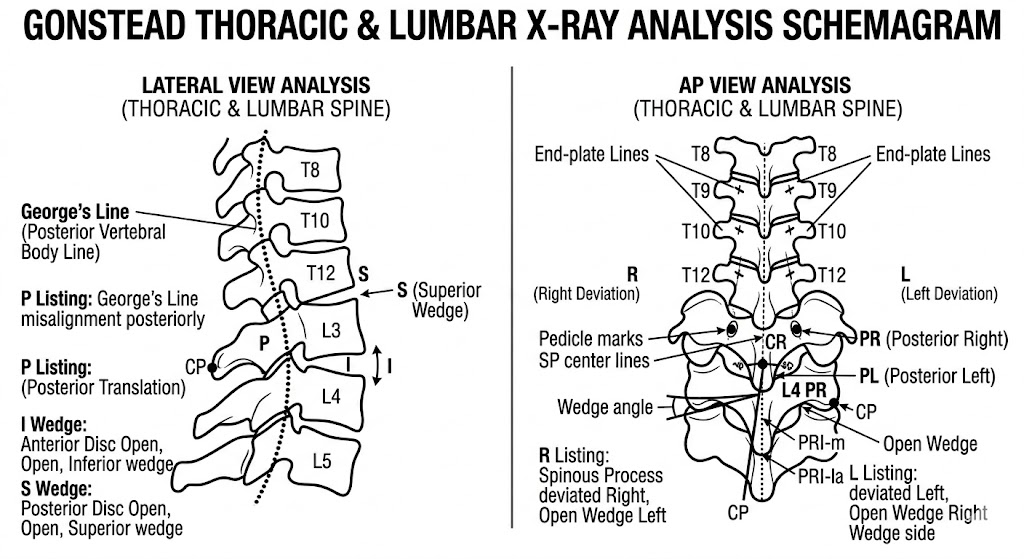
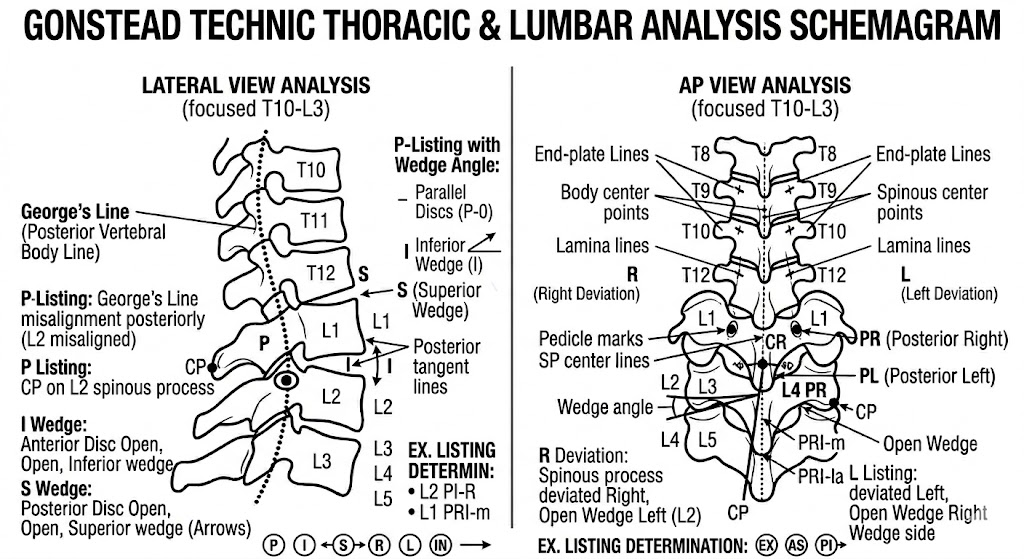
fix(ch4): Gonstead listing schemagram 4종 교체 (atlas .png→.jpg · thoracolumbar T10-L3 wedge angle · pelvic L3-L5 AP transverse grid)
Cache bust: ?v=20260506c

🤖 Generated with deploy.sh

diff --git a/chapter04_gonstead.html b/chapter04_gonstead.html
@@ -5,12 +5,12 @@
   <meta name="viewport" content="width=device-width, initial-scale=1.0" />
   <title>Gonstead Technique | Chiropractic</title>
   <meta name="description" content="Chapter 4. Gonstead Technique — 5 Components 특이적 분석 · X-ray listing · Level Disc Theory. 근거 기반, 비판적 시각 포함." />
-  <link rel="stylesheet" href="./assets/main.css?v=20260506a" />
+  <link rel="stylesheet" href="./assets/main.css?v=20260506c" />
 
-<script defer src="./assets/ui.js?v=20260506a"></script>
-<script defer src="./assets/download-guard.js?v=20260506a"></script>
-<script defer src="./assets/hide-guard.js?v=20260506a"></script>
-<script defer src="./assets/pdf-viewer.js?v=20260506a"></script>
+<script defer src="./assets/ui.js?v=20260506c"></script>
+<script defer src="./assets/download-guard.js?v=20260506c"></script>
+<script defer src="./assets/hide-guard.js?v=20260506c"></script>
+<script defer src="./assets/pdf-viewer.js?v=20260506c"></script>
 <style id="gonstead-protocol-css">
 /* Gonstead per-region protocol cards */
 .gs-region {
@@ -201,8 +201,8 @@
 .archive-inline .video-card .title { font-weight: 600; font-size: .92em; }
 .archive-inline .video-card .meta { font-size: .78em; color: #86868b; }
 </style>
-  <script src="./assets/config.js?v=20260506a"></script>
-  <script type="module" src="./assets/auth-guard.js?v=20260506a"></script>
+  <script src="./assets/config.js?v=20260506c"></script>
+  <script type="module" src="./assets/auth-guard.js?v=20260506c"></script>
 </head>
 <body>
 
@@ -393,9 +393,9 @@
       </p>
 
       <figure style="margin: 1.25rem 0; text-align:center;">
-        <img src="./images/listing_Atlas.png" alt="Upper Cervical X-ray Analysis Schemagram — Lateral 및 APOM/Nasium에서 C0-C1-C2 listing 결정" loading="lazy" style="width:100%; max-width:880px; border:1px solid var(--c-border-light); border-radius:var(--r-md); background:#fff;" />
+        <img src="./images/listing_atlas.jpg" alt="Upper Cervical X-ray Analysis Schemagram — Lateral 및 APOM/Nasium에서 C0-C1-C2 listing 결정" loading="lazy" style="width:100%; max-width:880px; border:1px solid var(--c-border-light); border-radius:var(--r-md); background:#fff;" />
         <figcaption style="margin-top: 0.5rem; font-size: 0.9em; color: var(--c-text-muted); text-align:left;">
-          <strong>Upper Cervical Schemagram (C0-C1-C2)</strong> — <em>Lateral view</em>에서는 <strong>C1 Plane Line(Atlas Plane)</strong>의 전·후 방향 기울기로 <strong>AS(상방)</strong>·<strong>AI(하방)</strong>를 판독. <em>APOM(Open-Mouth)/Nasium</em>에서는 <strong>C1 Transverse Line</strong>이 occipital condyle에 대해 어느 쪽이 더 넓은지로 lateral mass shift(<strong>R/L</strong>)를 결정. C2 spinous(SP)의 편측 + open wedge 방향으로 <strong>PRS/PRI/PLS/PLI</strong>를 함께 판독한다. 예: 우측 lateral mass가 더 넓고 SP가 우측 + 우측 wedge open → <strong>ASR + C2 PRS</strong>.
+          <strong>Upper Cervical Schemagram (C0-C1-C2)</strong> — <em>Lateral view</em>에서는 <strong>C0-C1 Line</strong>과 <strong>C1 Plane Line(Atlas Plane)</strong>의 기울기로 <strong>AS(전방 하강 = Superior)</strong> · <strong>AI(후방 하강 = Inferior)</strong>를 판독. <em>APOM(Open-Mouth)/Nasium</em>에서는 <strong>C1 Transverse Line</strong>의 좌우 lateral mass 폭 차이로 <strong>R/L Shift</strong>를 결정 — 우측 lateral mass가 더 넓고 멀면 <strong>ASR(Right Rotation)</strong>, 반대측이면 <strong>ASL</strong>. C2는 <strong>C2 Spine Line(Atlas Line)</strong>과 <strong>Axis Line</strong>의 SP 편위 + open wedge 방향으로 <strong>PRS/PRI/PLS/PLI</strong>를 판독. 예: 우측 lateral mass 우세 + C2 SP 우측 + 우측 wedge open → <strong>ASR + C2 PRS</strong>.
           <br/><span style="color:#64748b">⚠ Schemagram은 분석 원리 학습용. 실제 임상 listing은 5 Components(History · Observation · Instrumentation · Palpation · X-ray) 일치 시에만 결정.</span>
         </figcaption>
       </figure>
@@ -433,9 +433,9 @@
       </figure>
 
       <figure style="margin: 1.25rem 0; text-align:center;">
-        <img src="./images/listing_thoracolumbar.jpg" alt="Gonstead Thoracic & Lumbar X-ray Analysis Schemagram — P listing(posterior translation), I/S wedge 결정" loading="lazy" style="width:100%; max-width:980px; border:1px solid var(--c-border-light); border-radius:var(--r-md); background:#fff;" />
+        <img src="./images/listing_thoracolumbar.jpg" alt="Gonstead Technic Thoracic & Lumbar Analysis Schemagram (focused T10-L3) — P listing + wedge angle, AP pedicle/SP analysis" loading="lazy" style="width:100%; max-width:980px; border:1px solid var(--c-border-light); border-radius:var(--r-md); background:#fff;" />
         <figcaption style="margin-top: 0.5rem; font-size: 0.9em; color: var(--c-text-muted); text-align:left;">
-          <strong>Thoracic & Lumbar Schemagram (T1-T12 · L1-L5)</strong> — <em>Lateral view</em>의 <strong>P Listing</strong>은 George's Line이 후방으로 어긋난 분절(posterior translation)을 의미. <strong>I Wedge</strong>는 <em>전방 disc open</em>(하부 wedge), <strong>S Wedge</strong>는 <em>후방 disc open</em>(상부 wedge). <em>AP view</em>에서는 <strong>pedicle marks</strong>와 <strong>SP center line</strong>으로 SP 편위 방향 + open wedge 측을 함께 본다. 예: SP가 우측 + 좌측 open wedge → <strong>L4 PRI</strong>, SP가 좌측 + 우측 open wedge → <strong>PLS/PLI</strong>. 흉추는 <strong>늑골 head</strong>도 보조 지표로 활용.
+          <strong>Thoracic & Lumbar Schemagram (focused T10-L3)</strong> — <em>Lateral view</em>: <strong>George's Line(Posterior Vertebral Body Line)</strong>의 후방 단절로 <strong>P Listing</strong>(posterior translation, 예시는 L2)을 식별. Wedge angle scale은 <strong>P-0(parallel disc)</strong> · <strong>I(Inferior wedge — 전방 disc open)</strong> · <strong>S(Superior wedge — 후방 disc open)</strong> 3단계로 정량화. <em>AP view</em>: <strong>end-plate line · pedicle marks · body center points · spinous center points · lamina lines</strong>를 함께 그려, SP 편위와 open wedge 측을 동시에 본다. 우측 SP 편위 + 좌측 wedge open → <strong>L4 PR / L1 PRI-m</strong>, 좌측 SP + 우측 wedge open → <strong>PLS/PLI</strong>. 예: 도식 우하단의 <code>L2 PI-R</code> · <code>L1 PRI-m</code>은 단일 추체에서 wedge magnitude(m = minor)까지 표기한 임상식 기록.
         </figcaption>
       </figure>
 
@@ -483,10 +483,10 @@
       </table>
 
       <figure style="margin: 1.25rem 0; text-align:center;">
-        <img src="./images/listing_pelvic.jpg" alt="Gonstead Lumbar & Pelvis (L4-S1) AP & Lateral Schemagram — P/I listing + IN/EX/AS/PI pelvic listings" loading="lazy" style="width:100%; max-width:980px; border:1px solid var(--c-border-light); border-radius:var(--r-md); background:#fff;" />
+        <img src="./images/listing_pelvic.jpg" alt="Gonstead L3-L5 & Pelvis AP Schemagram — Transverse 분석 + Pelvic grid markings(IN/EX, AS/PI, SP deviation)" loading="lazy" style="width:100%; max-width:880px; border:1px solid var(--c-border-light); border-radius:var(--r-md); background:#fff;" />
         <figcaption style="margin-top: 0.5rem; font-size: 0.9em; color: var(--c-text-muted); text-align:left;">
-          <strong>Lumbo-Pelvic Schemagram (L4-S1 + Innominate + Sacrum)</strong> — <em>Lateral view</em>에서 L5/S1 disc의 <strong>anterior wedge → I listing</strong>, <strong>posterior wedge → P listing</strong>으로 분류. <em>AP view</em>에서는 <strong>femoral head level line</strong>(양측 대퇴골두 수평선)과 <strong>S2 vertical reference line</strong>을 기준으로 ① <strong>iliac width(innominate line)</strong>로 <strong>IN/EX flare</strong>를, ② <strong>ischial tuberosity 높이</strong>로 <strong>AS/PI</strong>를, ③ <strong>sacral shift/tilt line</strong>으로 sacrum의 base listing(<strong>P-R/P-L</strong>)을 판독한다. 예: <code>L5 PI-R</code> + <code>R AS Ilium</code> + <code>Sacrum P-L</code> 동반 패턴은 SI joint 부정렬 임상에서 흔히 만나는 조합.
-          <br/><span style="color:#64748b">📐 분석 순서(권장): <strong>① Femoral head level → ② Sacral base → ③ Innominate(AS/PI/EX/IN) → ④ L5 → ⑤ 상위 요추</strong>. Foundation부터 위로 올라가며 보정.</span>
+          <strong>L3-L5 + Pelvis Schemagram (AP Transverse · Pelvic Grid)</strong> — Marking protocol: <strong>end-plate lines</strong>(L3-L5) + <strong>pedicle marks</strong> + <strong>central body dot</strong> + <strong>spinous center dot</strong>를 모든 분절에 그려 회전 평가. SP가 좌측이면 <strong>PRS/PRI</strong>(추체 우측 회전), 우측이면 <strong>PLS/PLI</strong>(예: <code>L4 PRS</code>). Pelvic grid는 ① <strong>S2 Vertical Reference Line</strong>(중앙 종축) ② <strong>Femoral Head Level Line</strong>(대퇴골두 수평선) ③ 좌·우 <strong>Iliac Width(Innominate line)</strong>를 그린 뒤, iliac width가 좁으면 <strong>IN(Internal flare)</strong>, 넓으면 <strong>EX(External flare)</strong>로 판정. Sacrum 양측에 <strong>IN/EX</strong>, 좌골 결절 부위에 <strong>AS/PI</strong>를 표기 — 4-listing(<strong>AS · PI · IN · EX</strong>) 조합으로 innominate 변위를 기록한다.
+          <br/><span style="color:#64748b">📐 분석 순서(권장): <strong>① Femoral head level → ② S2 vertical reference → ③ Iliac width(IN/EX) → ④ AS/PI(좌골 결절 높이) → ⑤ L5 → ⑥ 상위 요추</strong>. Foundation부터 위로 올라가며 보정.</span>
         </figcaption>
       </figure>
 

diff --git a/chapter11_cbp.html b/chapter11_cbp.html
@@ -5,12 +5,12 @@
   <meta name="viewport" content="width=device-width, initial-scale=1.0" />
   <title>Chiropractic BioPhysics (<abbr class="med-abbr" title="Chiropractic BioPhysics · 카이로프랙틱 바이오피직스 (자세·구조 교정)">CBP</abbr>) | Chiropractic</title>
   <meta name="description" content="Chapter 11. Chiropractic BioPhysics (CBP) — Donald & Deed Harrison · 수학·선형대수 기반 · Mirror Image® · Denneroll. 근거 기반, 비판적 시각 포함." />
-  <link rel="stylesheet" href="./assets/main.css?v=20260506a" />
+  <link rel="stylesheet" href="./assets/main.css?v=20260506c" />
 
-<script defer src="./assets/ui.js?v=20260506a"></script>
-<script defer src="./assets/download-guard.js?v=20260506a"></script>
-<script defer src="./assets/hide-guard.js?v=20260506a"></script>
-<script defer src="./assets/pdf-viewer.js?v=20260506a"></script>
+<script defer src="./assets/ui.js?v=20260506c"></script>
+<script defer src="./assets/download-guard.js?v=20260506c"></script>
+<script defer src="./assets/hide-guard.js?v=20260506c"></script>
+<script defer src="./assets/pdf-viewer.js?v=20260506c"></script>
 <style id="legacy-archive-css">
 .archive-inline { margin: 3rem 0; }
 .archive-inline .video-thumb-grid {
@@ -29,8 +29,8 @@
 .archive-inline .video-card .title { font-weight: 600; font-size: .92em; }
 .archive-inline .video-card .meta { font-size: .78em; color: #86868b; }
 </style>
-  <script src="./assets/config.js?v=20260506a"></script>
-  <script type="module" src="./assets/auth-guard.js?v=20260506a"></script>
+  <script src="./assets/config.js?v=20260506c"></script>
+  <script type="module" src="./assets/auth-guard.js?v=20260506c"></script>
 </head>
 <body>
 

diff --git a/chapter10_sot.html b/chapter10_sot.html
@@ -5,12 +5,12 @@
   <meta name="viewport" content="width=device-width, initial-scale=1.0" />
   <title>Sacro-Occipital Technique (<abbr class="med-abbr" title="Sacro-Occipital Technique · 천골-후두 기법 (DeJarnette)">SOT</abbr>) | Chiropractic</title>
   <meta name="description" content="Chapter 10. Sacro-Occipital Technique (SOT) — DeJarnette 카테고리 I/II/III · 골반 블록 🟡 · 🔴 Cranial·Visceral 주장은 No evidence. 근거 기반, 비판적 시각 포함." />
-  <link rel="stylesheet" href="./assets/main.css?v=20260506a" />
+  <link rel="stylesheet" href="./assets/main.css?v=20260506c" />
 
-<script defer src="./assets/ui.js?v=20260506a"></script>
-<script defer src="./assets/download-guard.js?v=20260506a"></script>
-<script defer src="./assets/hide-guard.js?v=20260506a"></script>
-<script defer src="./assets/pdf-viewer.js?v=20260506a"></script>
+<script defer src="./assets/ui.js?v=20260506c"></script>
+<script defer src="./assets/download-guard.js?v=20260506c"></script>
+<script defer src="./assets/hide-guard.js?v=20260506c"></script>
+<script defer src="./assets/pdf-viewer.js?v=20260506c"></script>
 <style id="legacy-archive-css">
 .archive-inline { margin: 3rem 0; }
 .archive-inline .video-thumb-grid {
@@ -29,8 +29,8 @@
 .archive-inline .video-card .title { font-weight: 600; font-size: .92em; }
 .archive-inline .video-card .meta { font-size: .78em; color: #86868b; }
 </style>
-  <script src="./assets/config.js?v=20260506a"></script>
-  <script type="module" src="./assets/auth-guard.js?v=20260506a"></script>
+  <script src="./assets/config.js?v=20260506c"></script>
+  <script type="module" src="./assets/auth-guard.js?v=20260506c"></script>
 </head>
 <body>
 

diff --git a/chapter05_toggle_recoil.html b/chapter05_toggle_recoil.html
@@ -5,12 +5,12 @@
   <meta name="viewport" content="width=device-width, initial-scale=1.0" />
   <title>Toggle Recoil (<abbr class="med-abbr" title="Hole-In-One · B.J. Palmer 상부경추 단일 교정 이론 (Toggle Recoil)">HIO</abbr>) | Chiropractic</title>
   <meta name="description" content="Chapter 5. Toggle Recoil (HIO) — 상부경추 특이 교정 · B.J. Palmer 1930s · 🔴 HIO 전신질환 치료설은 근거 없음. 근거 기반, 비판적 시각 포함." />
-  <link rel="stylesheet" href="./assets/main.css?v=20260506a" />
+  <link rel="stylesheet" href="./assets/main.css?v=20260506c" />
 
-<script defer src="./assets/ui.js?v=20260506a"></script>
-<script defer src="./assets/download-guard.js?v=20260506a"></script>
-<script defer src="./assets/hide-guard.js?v=20260506a"></script>
-<script defer src="./assets/pdf-viewer.js?v=20260506a"></script>
+<script defer src="./assets/ui.js?v=20260506c"></script>
+<script defer src="./assets/download-guard.js?v=20260506c"></script>
+<script defer src="./assets/hide-guard.js?v=20260506c"></script>
+<script defer src="./assets/pdf-viewer.js?v=20260506c"></script>
 <style id="legacy-archive-css">
 .archive-inline { margin: 3rem 0; }
 .archive-inline .video-thumb-grid {
@@ -29,8 +29,8 @@
 .archive-inline .video-card .title { font-weight: 600; font-size: .92em; }
 .archive-inline .video-card .meta { font-size: .78em; color: #86868b; }
 </style>
-  <script src="./assets/config.js?v=20260506a"></script>
-  <script type="module" src="./assets/auth-guard.js?v=20260506a"></script>
+  <script src="./assets/config.js?v=20260506c"></script>
+  <script type="module" src="./assets/auth-guard.js?v=20260506c"></script>
 </head>
 <body>
 

diff --git a/chapter12_ak.html b/chapter12_ak.html
@@ -5,12 +5,12 @@
   <meta name="viewport" content="width=device-width, initial-scale=1.0" />
   <title>Applied Kinesiology (<abbr class="med-abbr" title="Applied Kinesiology · 응용 운동학 (George Goodheart, 1964)">AK</abbr>) | Chiropractic</title>
   <meta name="description" content="Chapter 12. Applied Kinesiology (AK) — George Goodheart 1964 · MMT · 🔴 알레르기·영양 진단 주장은 근거 없음. 근거 기반, 비판적 시각 포함." />
-  <link rel="stylesheet" href="./assets/main.css?v=20260506a" />
+  <link rel="stylesheet" href="./assets/main.css?v=20260506c" />
 
-<script defer src="./assets/ui.js?v=20260506a"></script>
-<script defer src="./assets/download-guard.js?v=20260506a"></script>
-<script defer src="./assets/hide-guard.js?v=20260506a"></script>
-<script defer src="./assets/pdf-viewer.js?v=20260506a"></script>
+<script defer src="./assets/ui.js?v=20260506c"></script>
+<script defer src="./assets/download-guard.js?v=20260506c"></script>
+<script defer src="./assets/hide-guard.js?v=20260506c"></script>
+<script defer src="./assets/pdf-viewer.js?v=20260506c"></script>
 <style id="legacy-archive-css">
 .archive-inline { margin: 3rem 0; }
 .archive-inline .video-thumb-grid {
@@ -29,8 +29,8 @@
 .archive-inline .video-card .title { font-weight: 600; font-size: .92em; }
 .archive-inline .video-card .meta { font-size: .78em; color: #86868b; }
 </style>
-  <script src="./assets/config.js?v=20260506a"></script>
-  <script type="module" src="./assets/auth-guard.js?v=20260506a"></script>
+  <script src="./assets/config.js?v=20260506c"></script>
+  <script type="module" src="./assets/auth-guard.js?v=20260506c"></script>
 </head>
 <body>
 

diff --git a/chapter03_diversified.html b/chapter03_diversified.html
@@ -5,12 +5,12 @@
   <meta name="viewport" content="width=device-width, initial-scale=1.0" />
   <title>Diversified <abbr class="med-abbr" title="High-Velocity Low-Amplitude · 고속·저진폭 수기 교정">HVLA</abbr> | Chiropractic</title>
   <meta name="description" content="Diversified High-Velocity Low-Amplitude 카이로프랙틱 HVLA 수기 — 4주 근거 기반 커리큘럼. 강의록·PPTX·동영상·팟캐스트 통합 자료." />
-  <link rel="stylesheet" href="./assets/main.css?v=20260506a" />
+  <link rel="stylesheet" href="./assets/main.css?v=20260506c" />
 
-<script defer src="./assets/ui.js?v=20260506a"></script>
-<script defer src="./assets/download-guard.js?v=20260506a"></script>
-<script defer src="./assets/hide-guard.js?v=20260506a"></script>
-<script defer src="./assets/pdf-viewer.js?v=20260506a"></script>
+<script defer src="./assets/ui.js?v=20260506c"></script>
+<script defer src="./assets/download-guard.js?v=20260506c"></script>
+<script defer src="./assets/hide-guard.js?v=20260506c"></script>
+<script defer src="./assets/pdf-viewer.js?v=20260506c"></script>
 <style id="legacy-archive-css">
 .archive-inline { margin: 3rem 0; }
 .archive-inline .video-thumb-grid {
@@ -29,8 +29,8 @@
 .archive-inline .video-card .title { font-weight: 600; font-size: .92em; }
 .archive-inline .video-card .meta { font-size: .78em; color: #86868b; }
 </style>
-  <script src="./assets/config.js?v=20260506a"></script>
-  <script type="module" src="./assets/auth-guard.js?v=20260506a"></script>
+  <script src="./assets/config.js?v=20260506c"></script>
+  <script type="module" src="./assets/auth-guard.js?v=20260506c"></script>
 </head>
 <body>
 

diff --git a/editor.html b/editor.html
@@ -5,15 +5,15 @@
   <meta name="viewport" content="width=device-width, initial-scale=1.0" />
   <title>편집자 약력 | Chiropractic</title>
   <meta name="description" content="편집자 Jae-Ho Jang, M.D., BAppSc(Chiro)., D.C., PhD 약력 및 카이로프랙틱 자격증 갤러리." />
-  <link rel="stylesheet" href="./assets/main.css?v=20260506a" />
-  <script defer src="./assets/ui.js?v=20260506a"></script>
-  <script defer src="./assets/download-guard.js?v=20260506a"></script>
-  <script defer src="./assets/hide-guard.js?v=20260506a"></script>
-  <script defer src="./assets/pdf-viewer.js?v=20260506a"></script>
-  <script defer src="./assets/image-lightbox.js?v=20260506a"></script>
-  <script defer src="./assets/screenshot-guard.js?v=20260506a"></script>
-  <script src="./assets/config.js?v=20260506a"></script>
-  <script type="module" src="./assets/auth-guard.js?v=20260506a"></script>
+  <link rel="stylesheet" href="./assets/main.css?v=20260506c" />
+  <script defer src="./assets/ui.js?v=20260506c"></script>
+  <script defer src="./assets/download-guard.js?v=20260506c"></script>
+  <script defer src="./assets/hide-guard.js?v=20260506c"></script>
+  <script defer src="./assets/pdf-viewer.js?v=20260506c"></script>
+  <script defer src="./assets/image-lightbox.js?v=20260506c"></script>
+  <script defer src="./assets/screenshot-guard.js?v=20260506c"></script>
+  <script src="./assets/config.js?v=20260506c"></script>
+  <script type="module" src="./assets/auth-guard.js?v=20260506c"></script>
   <style>
     .editor-shell { max-width: 1180px; margin: 32px auto 96px; padding: 0 24px; }
     .editor-hero {

diff --git a/chapter01_introduction.html b/chapter01_introduction.html
@@ -5,12 +5,12 @@
   <meta name="viewport" content="width=device-width, initial-scale=1.0" />
   <title>서설 — 카이로프랙틱이란 | Chiropractic</title>
   <meta name="description" content="Chapter 1. 카이로프랙틱의 역사·철학·편집 원칙 개관 — 한국 의료 전문가 대상 근거 기반 카이로프랙틱 통합 강의 시스템의 서설." />
-  <link rel="stylesheet" href="./assets/main.css?v=20260506a" />
+  <link rel="stylesheet" href="./assets/main.css?v=20260506c" />
 
-<script defer src="./assets/ui.js?v=20260506a"></script>
-<script defer src="./assets/download-guard.js?v=20260506a"></script>
-<script defer src="./assets/hide-guard.js?v=20260506a"></script>
-<script defer src="./assets/pdf-viewer.js?v=20260506a"></script>
+<script defer src="./assets/ui.js?v=20260506c"></script>
+<script defer src="./assets/download-guard.js?v=20260506c"></script>
+<script defer src="./assets/hide-guard.js?v=20260506c"></script>
+<script defer src="./assets/pdf-viewer.js?v=20260506c"></script>
 <style id="legacy-archive-css">
 .archive-inline { margin: 3rem 0; }
 .archive-inline .video-thumb-grid {
@@ -29,8 +29,8 @@
 .archive-inline .video-card .title { font-weight: 600; font-size: .92em; }
 .archive-inline .video-card .meta { font-size: .78em; color: #86868b; }
 </style>
-  <script src="./assets/config.js?v=20260506a"></script>
-  <script type="module" src="./assets/auth-guard.js?v=20260506a"></script>
+  <script src="./assets/config.js?v=20260506c"></script>
+  <script type="module" src="./assets/auth-guard.js?v=20260506c"></script>
 </head>
 <body>
 

diff --git a/signup.html b/signup.html
@@ -4,12 +4,12 @@
   <meta charset="UTF-8" />
   <meta name="viewport" content="width=device-width, initial-scale=1.0" />
   <title>가입 | Chiropractic</title>
-  <link rel="stylesheet" href="./assets/main.css?v=20260506a" />
-<script defer src="./assets/ui.js?v=20260506a"></script>
-<script defer src="./assets/download-guard.js?v=20260506a"></script>
-<script defer src="./assets/hide-guard.js?v=20260506a"></script>
-<script defer src="./assets/pdf-viewer.js?v=20260506a"></script>
-  <script src="./assets/config.js?v=20260506a"></script>
+  <link rel="stylesheet" href="./assets/main.css?v=20260506c" />
+<script defer src="./assets/ui.js?v=20260506c"></script>
+<script defer src="./assets/download-guard.js?v=20260506c"></script>
+<script defer src="./assets/hide-guard.js?v=20260506c"></script>
+<script defer src="./assets/pdf-viewer.js?v=20260506c"></script>
+  <script src="./assets/config.js?v=20260506c"></script>
   <style>
     .auth-card{max-width:460px;margin:4rem auto;padding:2.5rem;background:#fff;border:1px solid #e0e0e3;border-radius:18px;box-shadow:0 8px 32px rgba(0,0,0,.04)}
     .auth-card h1{margin:0 0 .5rem;font-size:1.7rem}
@@ -90,7 +90,7 @@
   </div>
 
   <script type="module">
-    import { supabase, sessionReady, signInWithGoogle, clearStaleAuth } from "./assets/supabase-client.js?v=20260506a";
+    import { supabase, sessionReady, signInWithGoogle, clearStaleAuth } from "./assets/supabase-client.js?v=20260506c";
 
     const errBox = document.getElementById("err");
     const showErr = (m) => { errBox.textContent = m; errBox.classList.add("show"); };

diff --git a/login.html b/login.html
@@ -4,12 +4,12 @@
   <meta charset="UTF-8" />
   <meta name="viewport" content="width=device-width, initial-scale=1.0" />
   <title>로그인 | Chiropractic</title>
-  <link rel="stylesheet" href="./assets/main.css?v=20260506a" />
-<script defer src="./assets/ui.js?v=20260506a"></script>
-<script defer src="./assets/download-guard.js?v=20260506a"></script>
-<script defer src="./assets/hide-guard.js?v=20260506a"></script>
-<script defer src="./assets/pdf-viewer.js?v=20260506a"></script>
-  <script src="./assets/config.js?v=20260506a"></script>
+  <link rel="stylesheet" href="./assets/main.css?v=20260506c" />
+<script defer src="./assets/ui.js?v=20260506c"></script>
+<script defer src="./assets/download-guard.js?v=20260506c"></script>
+<script defer src="./assets/hide-guard.js?v=20260506c"></script>
+<script defer src="./assets/pdf-viewer.js?v=20260506c"></script>
+  <script src="./assets/config.js?v=20260506c"></script>
   <style>
     .auth-card{max-width:420px;margin:5rem auto;padding:2.5rem;background:#fff;border:1px solid #e0e0e3;border-radius:18px;box-shadow:0 8px 32px rgba(0,0,0,.04)}
     .auth-card h1{margin:0 0 .5rem;font-size:1.7rem}
@@ -61,7 +61,7 @@
   </div>
 
   <script type="module">
-    import { supabase, sessionReady, signInWithGoogle, signInWithEmail, clearStaleAuth } from "./assets/supabase-client.js?v=20260506a";
+    import { supabase, sessionReady, signInWithGoogle, signInWithEmail, clearStaleAuth } from "./assets/supabase-client.js?v=20260506c";
 
     const params = new URLSearchParams(location.search);
     let next = params.get("next") || "/";

diff --git a/chapter07_activator.html b/chapter07_activator.html
@@ -5,12 +5,12 @@
   <meta name="viewport" content="width=device-width, initial-scale=1.0" />
   <title>Activator Methods | Chiropractic</title>
   <meta name="description" content="Chapter 7. Activator Methods — Arlan Fuhr · 기구 공학 140N·3ms·0.3-1.6mm · Basic Scan Protocol(LLR) · 부위별 LOD 교정 절차. 근거 기반·비판적 시각 포함." />
-  <link rel="stylesheet" href="./assets/main.css?v=20260506a" />
+  <link rel="stylesheet" href="./assets/main.css?v=20260506c" />
 
-<script defer src="./assets/ui.js?v=20260506a"></script>
-<script defer src="./assets/download-guard.js?v=20260506a"></script>
-<script defer src="./assets/hide-guard.js?v=20260506a"></script>
-<script defer src="./assets/pdf-viewer.js?v=20260506a"></script>
+<script defer src="./assets/ui.js?v=20260506c"></script>
+<script defer src="./assets/download-guard.js?v=20260506c"></script>
+<script defer src="./assets/hide-guard.js?v=20260506c"></script>
+<script defer src="./assets/pdf-viewer.js?v=20260506c"></script>
 <style id="legacy-archive-css">
 .archive-inline { margin: 3rem 0; }
 .archive-inline .video-thumb-grid {
@@ -29,8 +29,8 @@
 .archive-inline .video-card .title { font-weight: 600; font-size: .92em; }
 .archive-inline .video-card .meta { font-size: .78em; color: #86868b; }
 </style>
-  <script src="./assets/config.js?v=20260506a"></script>
-  <script type="module" src="./assets/auth-guard.js?v=20260506a"></script>
+  <script src="./assets/config.js?v=20260506c"></script>
+  <script type="module" src="./assets/auth-guard.js?v=20260506c"></script>
 </head>
 <body>
 

diff --git a/chapter08_cox.html b/chapter08_cox.html
@@ -5,12 +5,12 @@
   <meta name="viewport" content="width=device-width, initial-scale=1.0" />
   <title>Cox Flexion-Distraction | Chiropractic</title>
   <meta name="description" content="Chapter 8. Cox Flexion-Distraction — James M. Cox · 추간판 감압 · Protocol I/II/III · 요추 디스크 탈출. 근거 기반, 비판적 시각 포함." />
-  <link rel="stylesheet" href="./assets/main.css?v=20260506a" />
+  <link rel="stylesheet" href="./assets/main.css?v=20260506c" />
 
-<script defer src="./assets/ui.js?v=20260506a"></script>
-<script defer src="./assets/download-guard.js?v=20260506a"></script>
-<script defer src="./assets/hide-guard.js?v=20260506a"></script>
-<script defer src="./assets/pdf-viewer.js?v=20260506a"></script>
+<script defer src="./assets/ui.js?v=20260506c"></script>
+<script defer src="./assets/download-guard.js?v=20260506c"></script>
+<script defer src="./assets/hide-guard.js?v=20260506c"></script>
+<script defer src="./assets/pdf-viewer.js?v=20260506c"></script>
 <style id="legacy-archive-css">
 .archive-inline { margin: 3rem 0; }
 .archive-inline .video-thumb-grid {
@@ -29,8 +29,8 @@
 .archive-inline .video-card .title { font-weight: 600; font-size: .92em; }
 .archive-inline .video-card .meta { font-size: .78em; color: #86868b; }
 </style>
-  <script src="./assets/config.js?v=20260506a"></script>
-  <script type="module" src="./assets/auth-guard.js?v=20260506a"></script>
+  <script src="./assets/config.js?v=20260506c"></script>
+  <script type="module" src="./assets/auth-guard.js?v=20260506c"></script>
 </head>
 <body>
 
